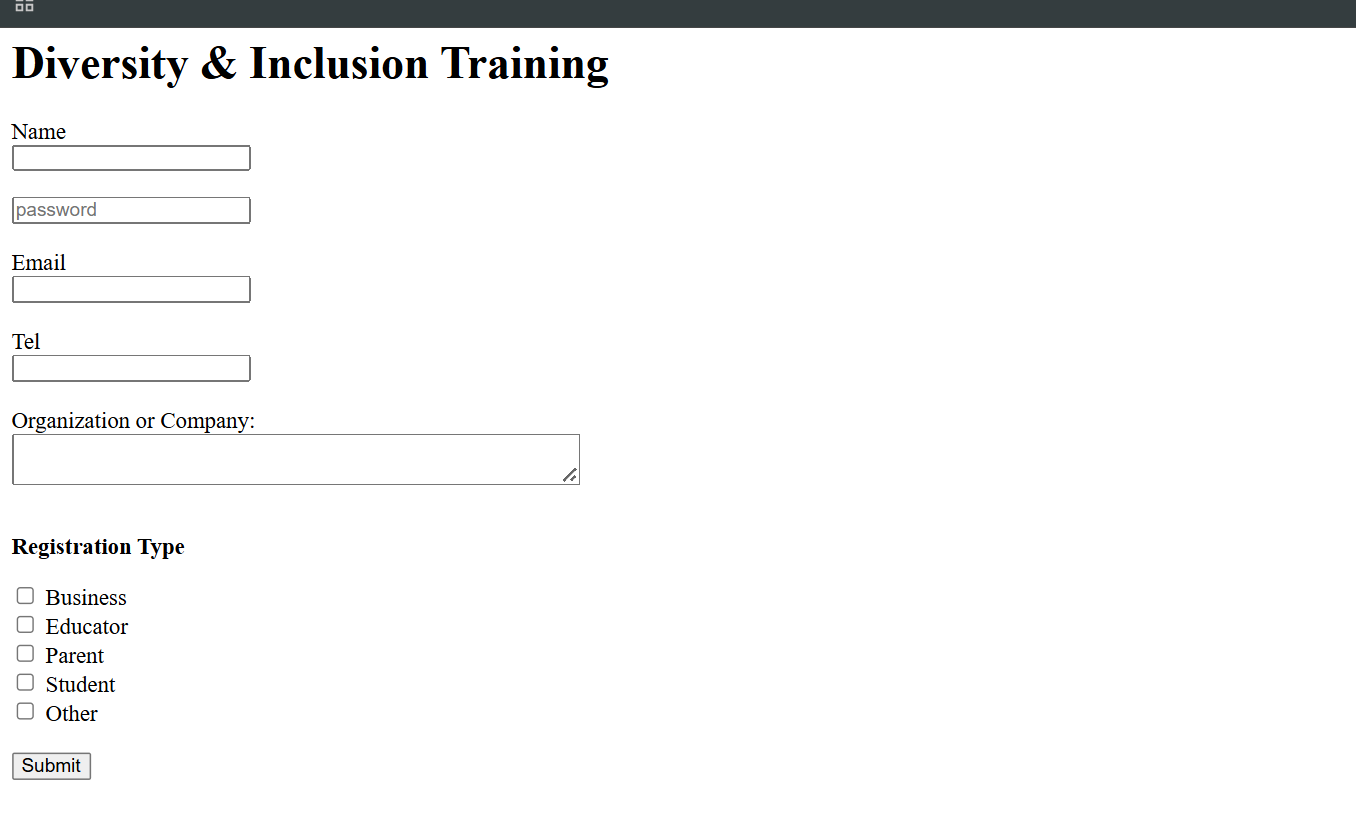
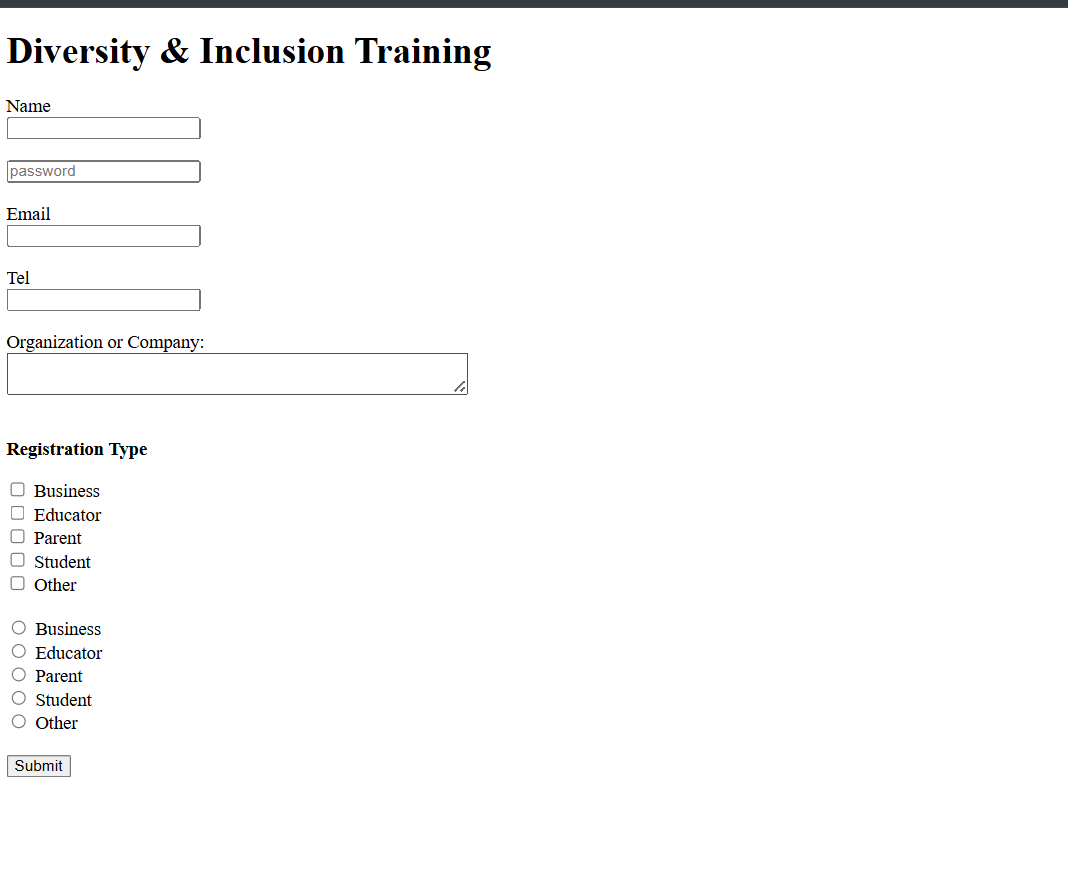
Update HTML form and screenshot

diff --git a/Task-html-1/index.html b/Task-html-1/index.html
@@ -61,6 +61,22 @@
       <label for="other">Other</label>
 
       <br /><br />
+      <input type="radio" id="business" name="registration" value="Business" />
+      <label for="business">Business</label><br />
+
+      <input type="radio" id="educator" name="registration" value="Educator" />
+      <label for="educator">Educator</label><br />
+
+      <input type="radio" id="parent" name="registration" value="Parent" />
+      <label for="parent">Parent</label><br />
+
+      <input type="radio" id="student" name="registration" value="Student" />
+      <label for="student">Student</label><br />
+
+      <input type="radio" id="other" name="registration" value="Other" />
+      <label for="other">Other</label>
+      <br />
+      <br />
 
       <input type="submit" value="Submit" />
     </form>